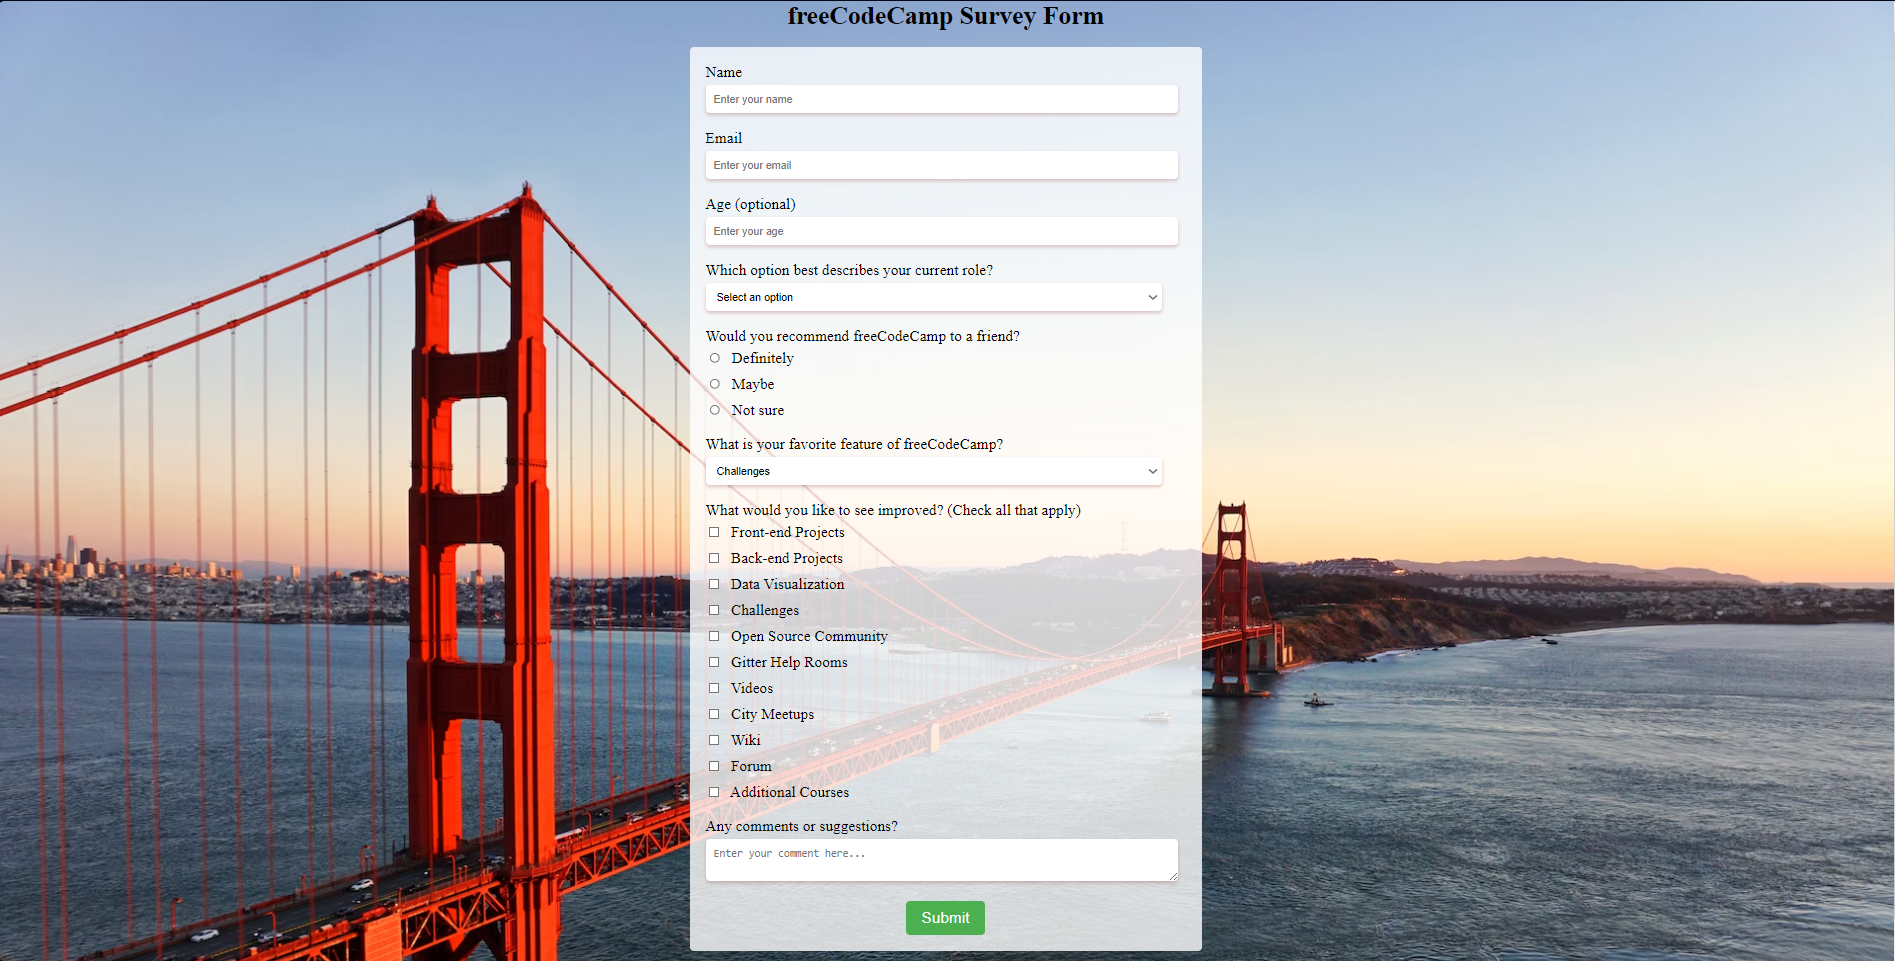
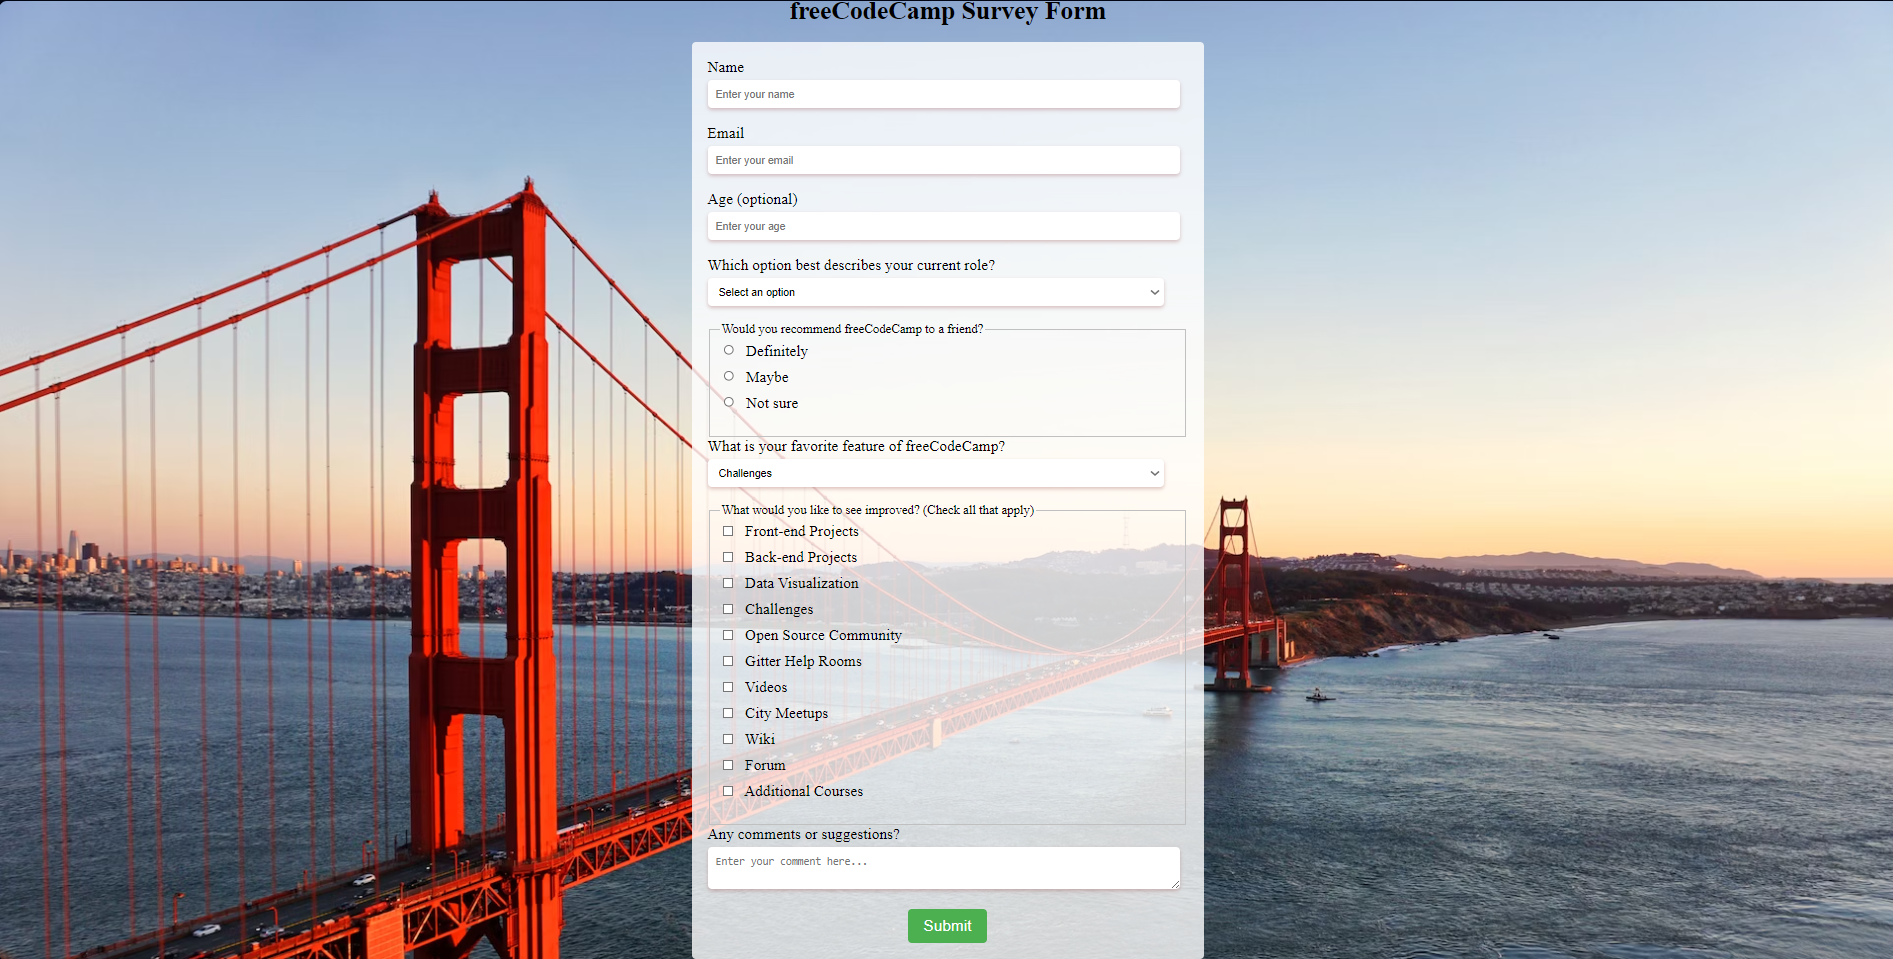
Imagem

diff --git a/html/index1.htm b/html/index1.htm
@@ -10,102 +10,110 @@
   <header>
     <h1 id="title">freeCodeCamp Survey Form</h1>
   </header>
-  <form id="survey-form">
-    <div class="form-group">
-      <label for="name" id="name-label">Name</label>
-      <input type="text" id="name" name="name" placeholder="Enter your name" required>
-    </div>
-    <div class="form-group">
-      <label for="email" id="email-label">Email</label>
-      <input type="email" id="email" name="email" placeholder="Enter your email" required>
-    </div>
-    <div class="form-group">
-      <label for="number" id="number-label">Age (optional)</label>
-      <input type="number" id="number" name="age" placeholder="Enter your age" min="0" max="120">
-    </div>
-    <div class="form-group">
-      <label for="dropdown">Which option best describes your current role?</label>
-      <select id="dropdown" name="role">
-        <option value="" disabled selected>Select an option</option>
-        <option value="student">Student</option>
-        <option value="developer">Developer</option>
-        <option value="other">Other</option>
-      </select>
-    </div>
-    <div class="form-group">
-      <label for="recommend">Would you recommend freeCodeCamp to a friend?</label>
-      <div class="radio-group">
-        <label>
-          <input type="radio" name="recommend" value="definitely" required> Definitely
-        </label>
-        <label>
-          <input type="radio" name="recommend" value="maybe"> Maybe
-        </label>
-        <label>
-          <input type="radio" name="recommend" value="no"> Not sure
-        </label>
-      </div>
-    </div>
-    <div class="form-group">
-      <label for="feature">What is your favorite feature of freeCodeCamp?</label>
-      <select id="feature" name="feature">
-        <option value="challenges">Challenges</option>
-        <option value="front-end-projects">Front-end Projects</option>
-        <option value="back-end-projects">Back-end Projects</option>
-        <option value="data-visualization">Data Visualization</option>
-        <option value="open-source-community">Open Source Community</option>
-        <option value="gitter-help-rooms">Gitter Help Rooms</option>
-        <option value="videos">Videos</option>
-        <option value="city-meetups">City Meetups</option>
-        <option value="wiki">Wiki</option>
-        <option value="forum">Forum</option>
-        <option value="additional-courses">Additional Courses</option>
-      </select>
-    </div>
-    <div class="form-group">
-      <label for="improvements">What would you like to see improved? (Check all that apply)</label>
-      <div class="checkbox-group">
-        <label>
-          <input type="checkbox" name="improvements" value="front-end-projects"> Front-end Projects
-        </label>
-        <label>
-          <input type="checkbox" name="improvements" value="back-end-projects"> Back-end Projects
-        </label>
-        <label>
-          <input type="checkbox" name="improvements" value="data-visualization"> Data Visualization
-        </label>
-        <label>
-          <input type="checkbox" name="improvements" value="challenges"> Challenges
-        </label>
-        <label>
-          <input type="checkbox" name="improvements" value="open-source-community"> Open Source Community
-        </label>
-        <label>
-          <input type="checkbox" name="improvements" value="gitter-help-rooms"> Gitter Help Rooms
-        </label>
-        <label>
-          <input type="checkbox" name="improvements" value="videos"> Videos
-        </label>
-        <label>
-          <input type="checkbox" name="improvements" value="city-meetups"> City Meetups
-        </label>
-        <label>
-          <input type="checkbox" name="improvements" value="wiki"> Wiki
-        </label>
-        <label>
-          <input type="checkbox" name="improvements" value="forum"> Forum
-        </label>
-        <label>
-          <input type="checkbox" name="improvements" value="additional-courses"> Additional Courses
-        </label>
-      </div>
-    </div>
-    <div class="form-group">
-      <label for="comments">Any comments or suggestions?</label>
-      <textarea id="comments" name="comments" placeholder="Enter your comment here..."></textarea>
-    </div>
-    <button type="submit" id="submit">Submit</button>
-  </form>
-  <p id="description">This is a survey form for freeCodeCamp.</p>
+  <main>
+    <form id="survey-form">
+      <section>
+        <label for="name" id="name-label">Name</label>
+        <input type="text" id="name" name="name" placeholder="Enter your name" required>
+      </section>
+      <section>
+        <label for="email" id="email-label">Email</label>
+        <input type="email" id="email" name="email" placeholder="Enter your email" required>
+      </section>
+      <section>
+        <label for="number" id="number-label">Age (optional)</label>
+        <input type="number" id="number" name="age" placeholder="Enter your age" min="0" max="120">
+      </section>
+      <section>
+        <label for="dropdown">Which option best describes your current role?</label>
+        <select id="dropdown" name="role">
+          <option value="" disabled selected>Select an option</option>
+          <option value="student">Student</option>
+          <option value="developer">Developer</option>
+          <option value="other">Other</option>
+        </select>
+      </section>
+      <section>
+        <fieldset>
+          <legend>Would you recommend freeCodeCamp to a friend?</legend>
+          <div class="radio-group">
+            <label>
+              <input type="radio" name="recommend" value="definitely" required> Definitely
+            </label>
+            <label>
+              <input type="radio" name="recommend" value="maybe"> Maybe
+            </label>
+            <label>
+              <input type="radio" name="recommend" value="no"> Not sure
+            </label>
+          </div>
+        </fieldset>
+      </section>
+      <section>
+        <label for="feature">What is your favorite feature of freeCodeCamp?</label>
+        <select id="feature" name="feature">
+          <option value="challenges">Challenges</option>
+          <option value="front-end-projects">Front-end Projects</option>
+          <option value="back-end-projects">Back-end Projects</option>
+          <option value="data-visualization">Data Visualization</option>
+          <option value="open-source-community">Open Source Community</option>
+          <option value="gitter-help-rooms">Gitter Help Rooms</option>
+          <option value="videos">Videos</option>
+          <option value="city-meetups">City Meetups</option>
+          <option value="wiki">Wiki</option>
+          <option value="forum">Forum</option>
+          <option value="additional-courses">Additional Courses</option>
+        </select>
+      </section>
+      <section>
+        <fieldset>
+          <legend>What would you like to see improved? (Check all that apply)</legend>
+          <div class="checkbox-group">
+            <label>
+              <input type="checkbox" name="improvements" value="front-end-projects"> Front-end Projects
+            </label>
+            <label>
+              <input type="checkbox" name="improvements" value="back-end-projects"> Back-end Projects
+            </label>
+            <label>
+              <input type="checkbox" name="improvements" value="data-visualization"> Data Visualization
+            </label>
+            <label>
+              <input type="checkbox" name="improvements" value="challenges"> Challenges
+            </label>
+            <label>
+              <input type="checkbox" name="improvements" value="open-source-community"> Open Source Community
+            </label>
+            <label>
+              <input type="checkbox" name="improvements" value="gitter-help-rooms"> Gitter Help Rooms
+            </label>
+            <label>
+              <input type="checkbox" name="improvements" value="videos"> Videos
+            </label>
+            <label>
+              <input type="checkbox" name="improvements" value="city-meetups"> City Meetups
+            </label>
+            <label>
+              <input type="checkbox" name="improvements" value="wiki"> Wiki
+            </label>
+            <label>
+              <input type="checkbox" name="improvements" value="forum"> Forum
+            </label>
+            <label>
+              <input type="checkbox" name="improvements" value="additional-courses"> Additional Courses
+            </label>
+          </div>
+        </fieldset>
+      </section>
+      <section>
+        <label for="comments">Any comments or suggestions?</label>
+        <textarea id="comments" name="comments" placeholder="Enter your comment here..."></textarea>
+      </section>
+      <button type="submit" id="submit">Submit</button>
+    </form>
+  </main>
+  <footer>
+    <p id="description">This is a survey form for freeCodeCamp.</p>
+  </footer>
 </body>
 </html>
